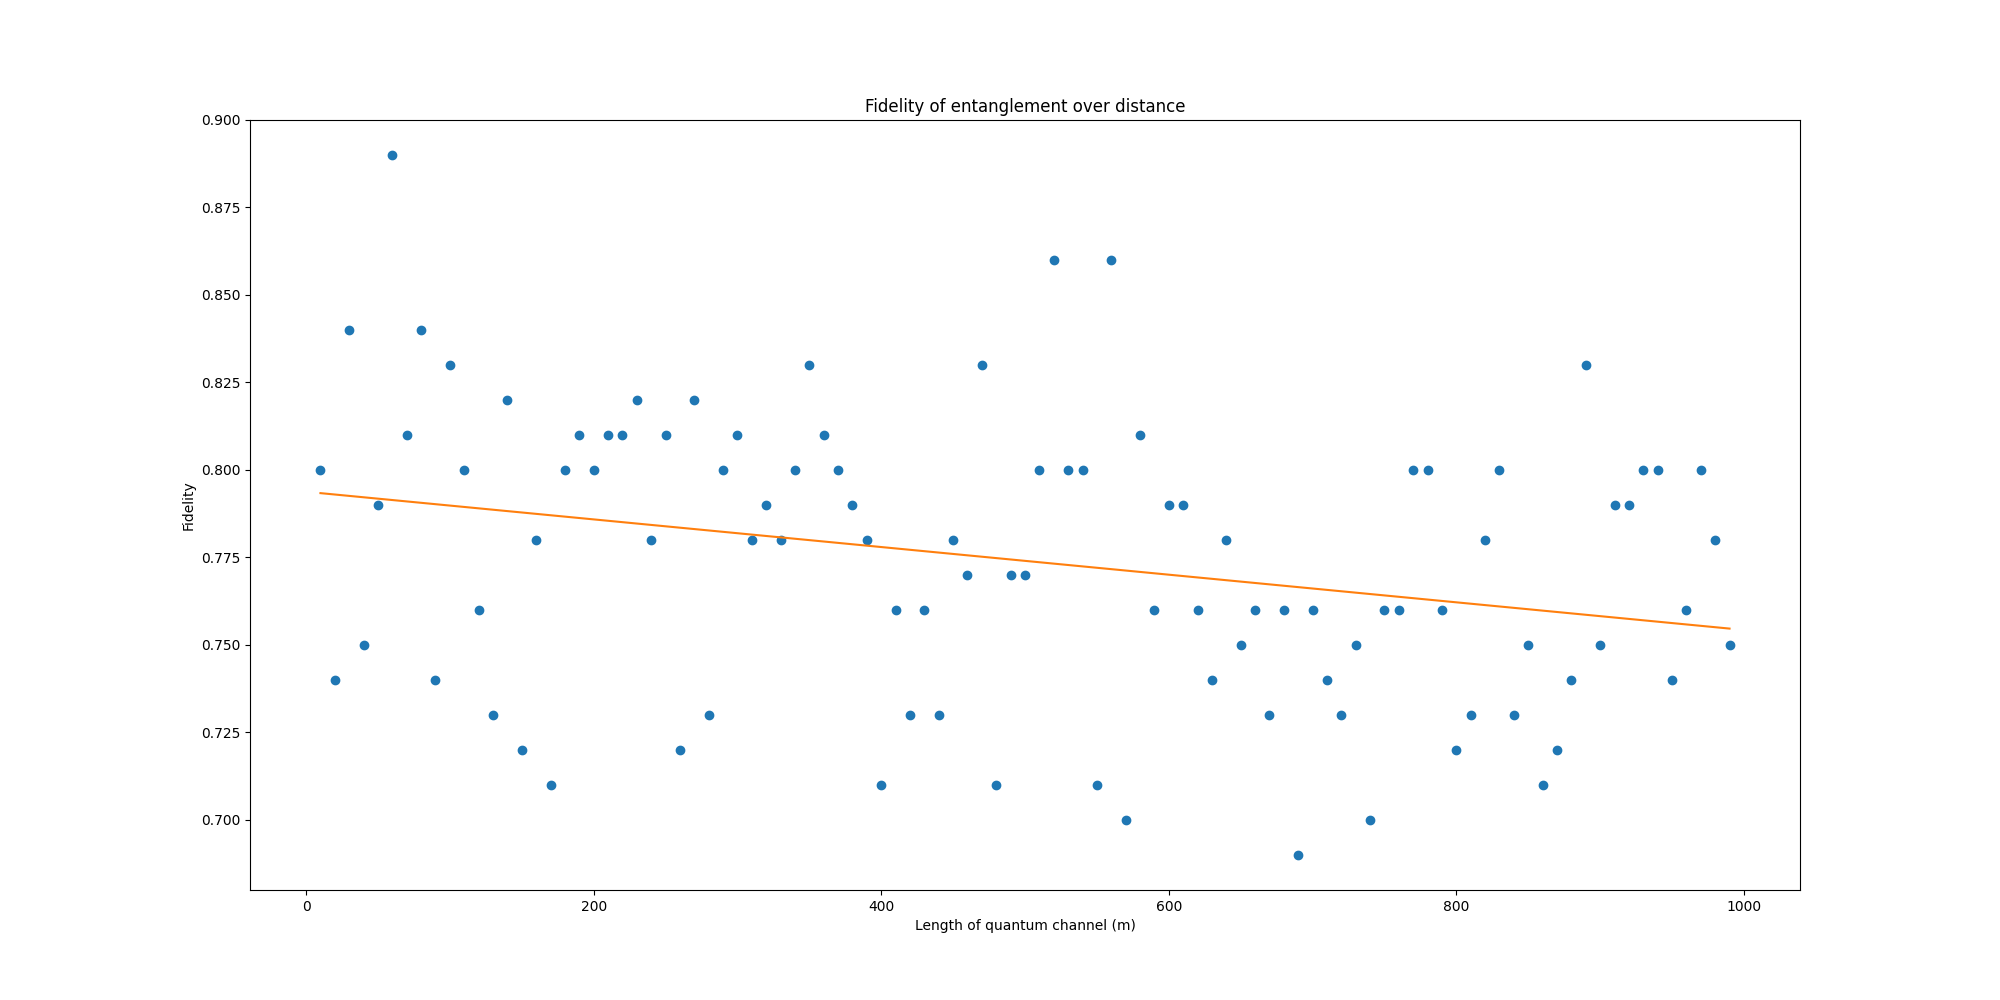
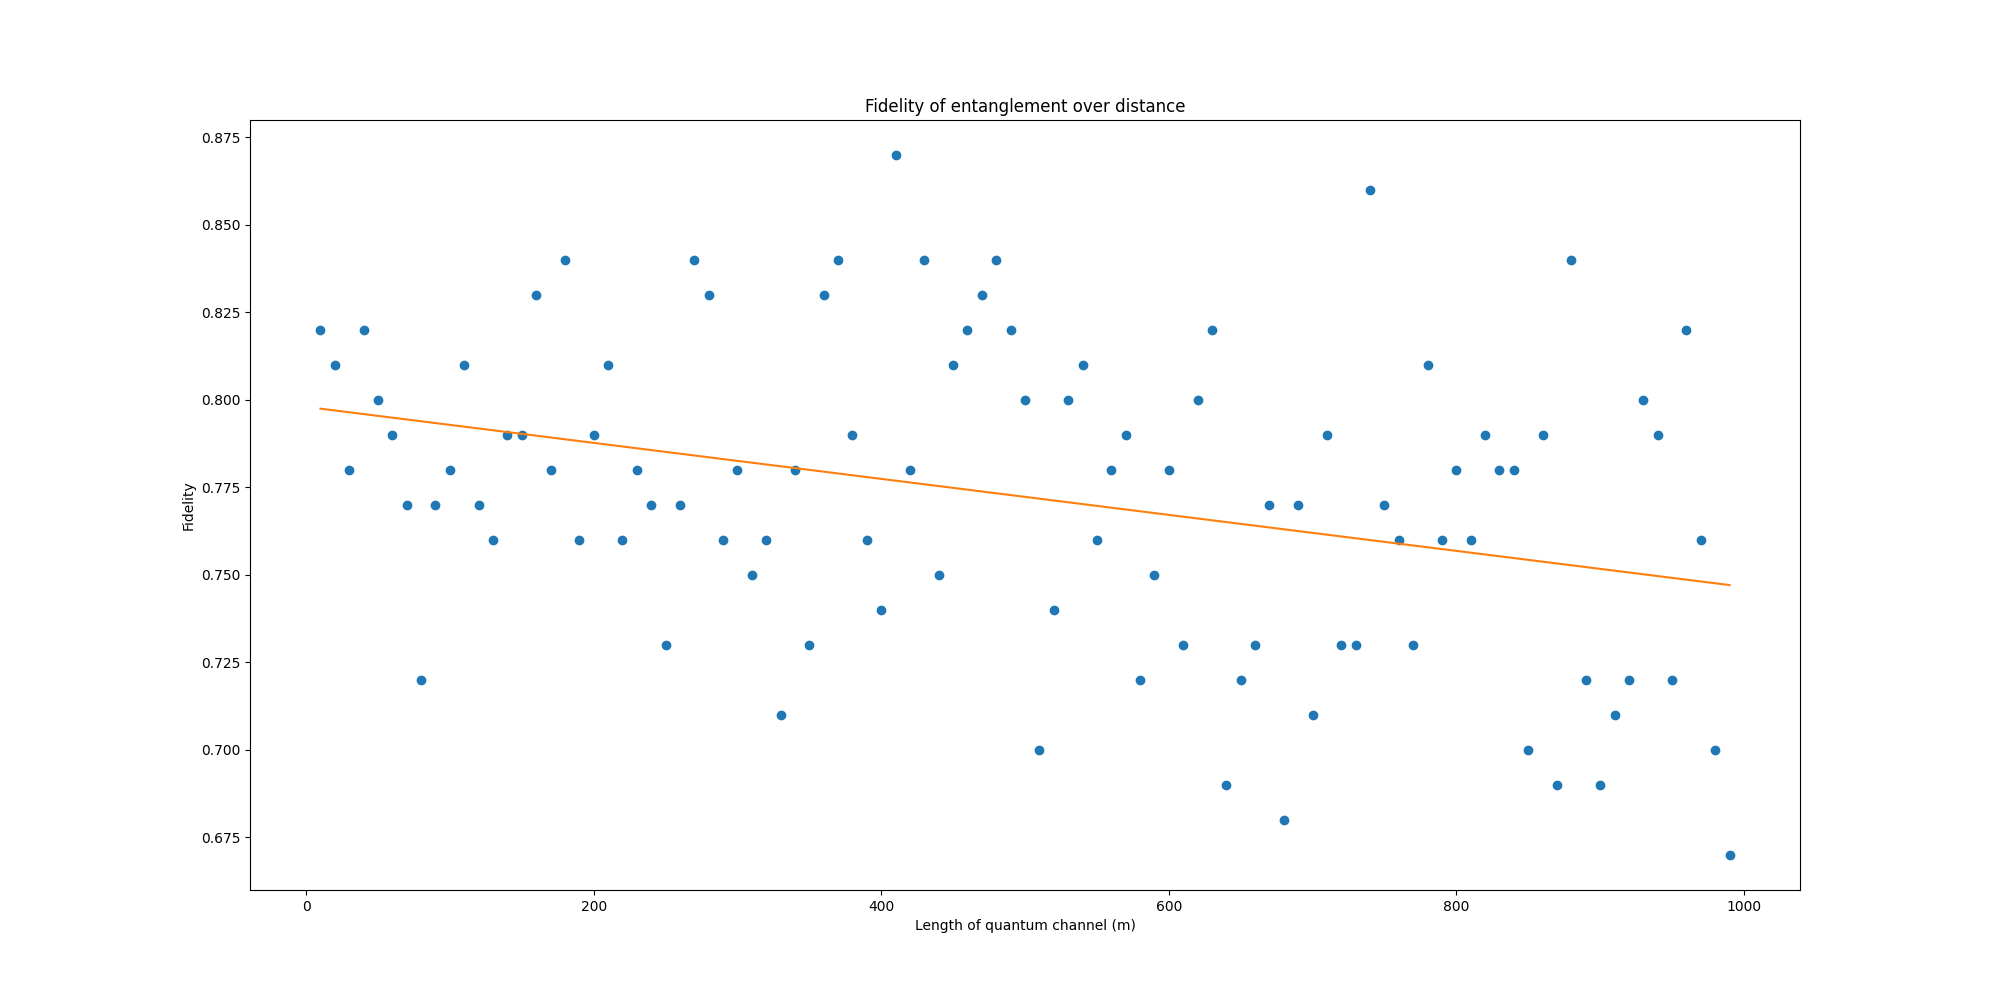
added entanglement swapping

diff --git a/src/network/StarNetwork.py b/src/network/StarNetwork.py
@@ -1,6 +1,6 @@
 from netsquid import sim_run, qubits, b00
 from netsquid.components import QuantumChannel, QSource, SourceStatus, FixedDelayModel, QuantumProcessor, \
-    FibreDelayModel
+    FibreDelayModel, INSTR_MEASURE_BELL
 from netsquid.nodes import Network, node
 from netsquid.qubits import StateSampler
 
@@ -306,7 +306,22 @@ class StarNetwork:
     # GENERATE ENTANGLEMENT BETWEEN NODE PAIRS #
     ############################################
 
-    def entangle_nodes(self, node1: int, node2: int) -> dict:
+    def entangle_nodes(self, node1: int, node2: int):
+        """
+        Perform the steps of entangling two nodes given their indices.
+
+        :param node1: The index of the first node
+        :param node2: The index of the second node
+        :raise AssertionError: If either `node1` or `node2` is not between 1 and `self._destinations_n - 1`
+        :return: A dictionary containing the qubits and their fidelity
+        """
+        assert (1 <= node1 <= self._destinations_n - 1 and 1 <= node2 <= self._destinations_n - 1)
+
+        self._perform_entanglement(node1, node2)
+        self._perform_entanglement_swapping(node1, node2)
+        return self._perform_fidelity_measurement(node1, node2)
+
+    def _perform_entanglement(self, node1: int, node2: int):
         """
         Given two node indices, generate a bell pair and send one qubit to `node1` and one qubit to `node2`. The
         function then returns the two qubits and the fidelity of their entanglement compared to the entangled state
@@ -314,11 +329,7 @@ class StarNetwork:
 
         :param node1: The index of the first node
         :param node2: The index of the second node
-        :raises: AssertionError If the index of one of the nodes is either smaller than 0 or bigger than
-                 `self._destinations_n` - 1
-        :return: A dictionary containing the two qubits and the fidelity of their entanglement
         """
-        assert (1 <= node1 <= self._destinations_n - 1 and 1 <= node2 <= self._destinations_n - 1)
 
         protocol_node1: GenerateEntanglement
         protocol_node2: GenerateEntanglement
@@ -365,9 +376,29 @@ class StarNetwork:
         self._disconnect_source_from_destination(node1)
         self._disconnect_source_from_destination(node2)
 
-        # Read the destination's memory
-        # qubit_node1, = self._network.subcomponents[f"Node{node1}"].qmemory.peek(0)
-        # qubit_node2, = self._network.subcomponents[f"Node{node2}"].qmemory.peek(0)
-        # entanglement_fidelity: float = qubits.fidelity([qubit_node1, qubit_node2], b00)
-        #
-        # return {"qubits": (qubit_node1, qubit_node2), "fidelity": entanglement_fidelity}
+    def _perform_entanglement_swapping(self, node1: int, node2: int):
+        """
+        Given two nodes, perform entanglement swapping only if either `node1` or `node2` is the Repeater.
+
+        :param node1: The index of the first node
+        :param node2: The index of the second node
+        """
+        if node1 == self._destinations_n - 1 or node2 == self._destinations_n - 1:
+            self._network.subcomponents["Repeater"].qmemory.execute_instruction(INSTR_MEASURE_BELL, [0, 1])
+
+    def _perform_fidelity_measurement(self, node1: int, node2: int):
+        """
+        Given two nodes, measure the fidelity of their entangled qubits.
+
+        :param node1: The index of the first node
+        :param node2: The index of the second node
+        :return: A dictionary containing the qubits and their fidelity
+        """
+        node1_label = f"Node{node1}" if node1 != self._destinations_n - 1 else "RemoteNode"
+        node2_label = f"Node{node2}" if node2 != self._destinations_n - 1 else "RemoteNode"
+
+        qubit_node1, = self._network.subcomponents[node1_label].qmemory.peek(0)
+        qubit_node2, = self._network.subcomponents[node2_label].qmemory.peek(0)
+        entanglement_fidelity: float = qubits.fidelity([qubit_node1, qubit_node2], b00)
+
+        return {"qubits": (qubit_node1, qubit_node2), "fidelity": entanglement_fidelity}

diff --git a/src/main.py b/src/main.py
@@ -1,5 +1,3 @@
-from netsquid import qubits, b00
-
 from src.network.StarNetwork import StarNetwork
 
 
@@ -7,20 +5,10 @@ if __name__ == "__main__":
     # Initialize Network
     star_network: StarNetwork = StarNetwork()
 
-    # Send entangled pairs to nodes 1 and 3
-    # entanglement_dict = star_network.entangle_nodes(1, 3)
+    # Send entangled pairs to nodes 1 and 4
     entanglement_dict = star_network.entangle_nodes(1, 4)
 
-    print(f"Qubit in Node1: {star_network.network.subcomponents['Node1'].qmemory.peek(0)}")
-    print(f"Qubit in Node2: {star_network.network.subcomponents['Node2'].qmemory.peek(0)}")
-    print(f"Qubit in Node3: {star_network.network.subcomponents['Node3'].qmemory.peek(0)}")
-    print(f"Qubit in Repeater: {star_network.network.subcomponents['Repeater'].qmemory.peek(0)}")
-    print(f"Qubit in Repeater: {star_network.network.subcomponents['Repeater'].qmemory.peek(1)}")
-    print(f"Qubit in Remote Node: {star_network.network.subcomponents['RemoteNode'].qmemory.peek(0)}")
-    print(f"Fidelity Node-Repeater: {1-(qubits.fidelity([star_network.network.subcomponents['Node1'].qmemory.peek(0)[0], star_network.network.subcomponents['RemoteNode'].qmemory.peek(0)[0]], b00))}")
-    # print(f"Fidelity Repeater-Node: {qubits.fidelity([star_network.network.subcomponents['RemoteNode'].qmemory.peek(0)[0], star_network.network.subcomponents['Repeater'].qmemory.peek(1)[0]], b00)}")
-
-    # print(f"Qubit in Node1: {entanglement_dict['qubits'][0]}")
-    # print(f"Qubit in Node3: {entanglement_dict['qubits'][1]}")
-    # print("-------------------------------------------")
-    # print(f"Fidelity of the entanglement: {float(str(entanglement_dict['fidelity'])[:5]) * 100}%")
+    print(f"Qubit in Node1: {entanglement_dict['qubits'][0]}")
+    print(f"Qubit in RemoteNode: {entanglement_dict['qubits'][1]}")
+    print("-------------------------------------------")
+    print(f"Fidelity of the entanglement: {float(round(entanglement_dict['fidelity'], 2)) * 100}%")

diff --git a/src/example/entanglement_distribution.py b/src/example/entanglement_distribution.py
@@ -10,6 +10,10 @@ from netsquid.protocols.nodeprotocols import NodeProtocol
 from netsquid.protocols.protocol import Signals
 from netsquid.qubits import StateSampler
 
+from src.models.DynamicFibreDelay import DynamicFibreDelay
+from src.models.FibreError import FibreError
+from src.models.T1T2Error import T1T2Error
+
 # from src.models.FibreError import FibreError
 # from src.models.T1T2Error import T1T2Error
 # from src.models.DynamicFibreDelay import DynamicFibreDelay
@@ -145,9 +149,9 @@ def network_setup(length=0) -> Network:
     models = dict(
         quantum_loss_model=FibreLossModel(p_loss_init=0.2, p_loss_length=0.25),
         quantum_noise_model=T1T2NoiseModel(T1=49 * 10 ** -6, T2=(95 / (100 + 93.877)) * 10 ** -6),
-        # quantum_loss_model=FibreError.loss_model()
-        #               quantum_noise_model=T1T2Error.noise_model(),
-        #               quantum_delay_model=DynamicFibreDelay.delay_model()
+        # quantum_loss_model=FibreError.loss_model,
+        # quantum_noise_model=T1T2Error.noise_model,
+        # quantum_delay_model=DynamicFibreDelay.fibre_delay_model
         quantum_delay_model=FibreDelayModel(c=200e3)
     )
 

diff --git a/src/models/FibreError.py b/src/models/FibreError.py
@@ -25,39 +25,7 @@ class FibreError:
     _p_loss_length: float = 0.25
     _rng: RandomState = None
 
-    _loss_model: FibreLossModel = None
+    loss_model: FibreLossModel = None
 
     def __init__(self):
-        self._loss_model: FibreLossModel = FibreLossModel(self._p_loss_init, self._p_loss_length, self._rng)
-
-    ###########
-    # GETTERS #
-    ###########
-
-    @property
-    def p_loss_init(self) -> float:
-        """
-        :type: float
-        """
-        return self._p_loss_init
-
-    @property
-    def p_loss_length(self) -> float:
-        """
-        :type: float
-        """
-        return self._p_loss_length
-
-    @property
-    def rng(self) -> RandomState:
-        """
-        :type: RandomState
-        """
-        return self._rng
-
-    @property
-    def loss_model(self) -> FibreLossModel:
-        """
-        :type: FibreLossModel
-        """
-        return self._loss_model
+        self.loss_model: FibreLossModel = FibreLossModel(self._p_loss_init, self._p_loss_length, self._rng)

diff --git a/src/models/T1T2Error.py b/src/models/T1T2Error.py
@@ -48,32 +48,7 @@ class T1T2Error:
     _t1: float = 49 * 10 ** -6
     _t2: float = (95 / (100 + _constant)) * 10 ** -6
 
-    _noise_model: T1T2NoiseModel = None
+    noise_model: T1T2NoiseModel = None
 
     def __init__(self):
-        self._noise_model = T1T2NoiseModel(self._t1, self._t2)
-
-    ###########
-    # GETTERS #
-    ###########
-
-    @property
-    def t1(self) -> float:
-        """
-        :type: float
-        """
-        return self._t1
-
-    @property
-    def t2(self) -> float:
-        """
-        :type: float
-        """
-        return self._t2
-
-    @property
-    def noise_model(self) -> T1T2NoiseModel:
-        """
-        :type: T1T2NoiseModel
-        """
-        return self._noise_model
+        self.noise_model = T1T2NoiseModel(self._t1, self._t2)

diff --git a/src/models/DynamicFibreDelay.py b/src/models/DynamicFibreDelay.py
@@ -17,25 +17,7 @@ class DynamicFibreDelay:
         (float, optional) – Fixed speed of photons through the channel [km/s].
     """
     _c: float = 200000
-    _fibre_delay_model: FibreDelayModel = None
+    fibre_delay_model: FibreDelayModel = None
 
     def __init__(self):
         self.fibre_delay_model: FibreDelayModel = FibreDelayModel(self._c)
-
-    ###########
-    # GETTERS #
-    ###########
-
-    @property
-    def c(self) -> float:
-        """
-        :type: float
-        """
-        return self._c
-
-    @property
-    def delay_model(self) -> FibreDelayModel:
-        """
-        :type: FibreDelayModel
-        """
-        return self._fibre_delay_model

diff --git a/src/protocols/GenerateEntanglement.py b/src/protocols/GenerateEntanglement.py
@@ -50,17 +50,12 @@ class GenerateEntanglement(NodeProtocol):
 
         if not self._is_source:
             yield self.await_port_input(self._qmem_input_ports[0])
-            # self.send_signal(Signals.SUCCESS, 0)
+            self.send_signal(Signals.SUCCESS, 0)
 
         if self._is_remote:
             yield self.await_port_input(self._qmem_input_ports[1])
-
-        if self._is_repeater:
-            self.node.qmemory.execute_instruction(INSTR_SWAP, [0, 1])
-            if self.node.qmemory.busy:
-                yield self.await_program(self.node.qmemory)
-
             self.send_signal(Signals.SUCCESS, 1)
+
 
     @property
     def is_connected(self) -> bool:
